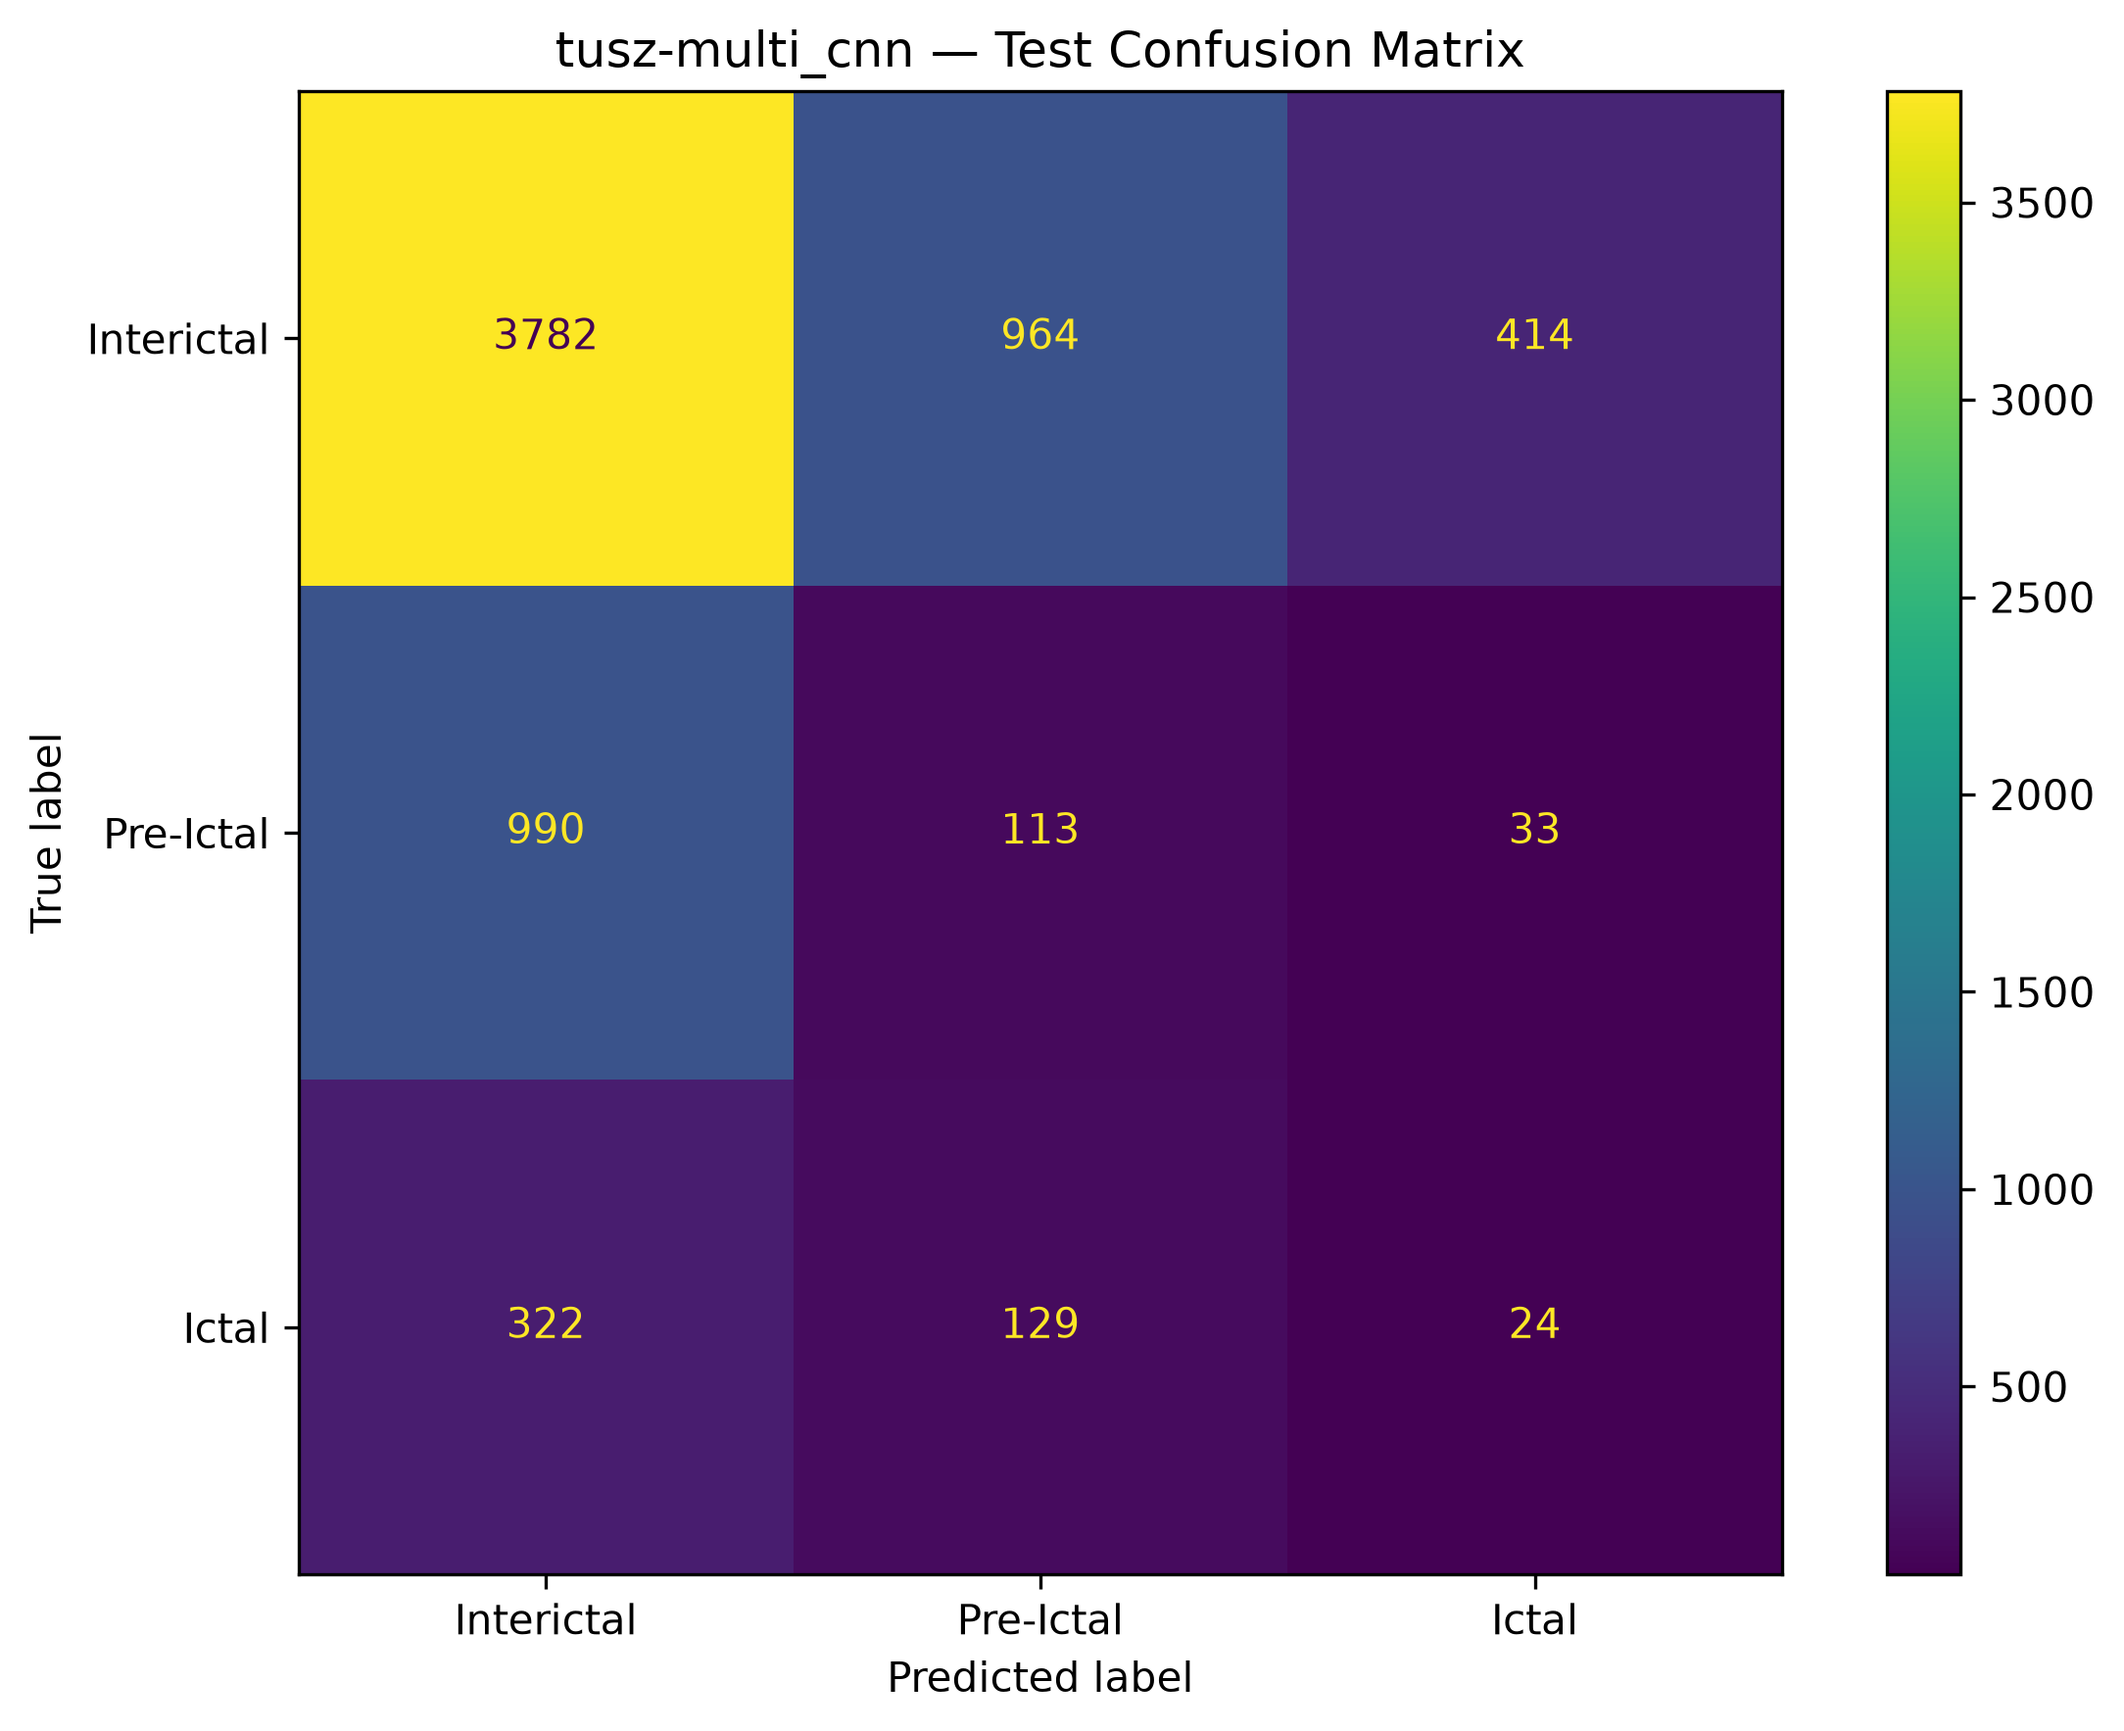
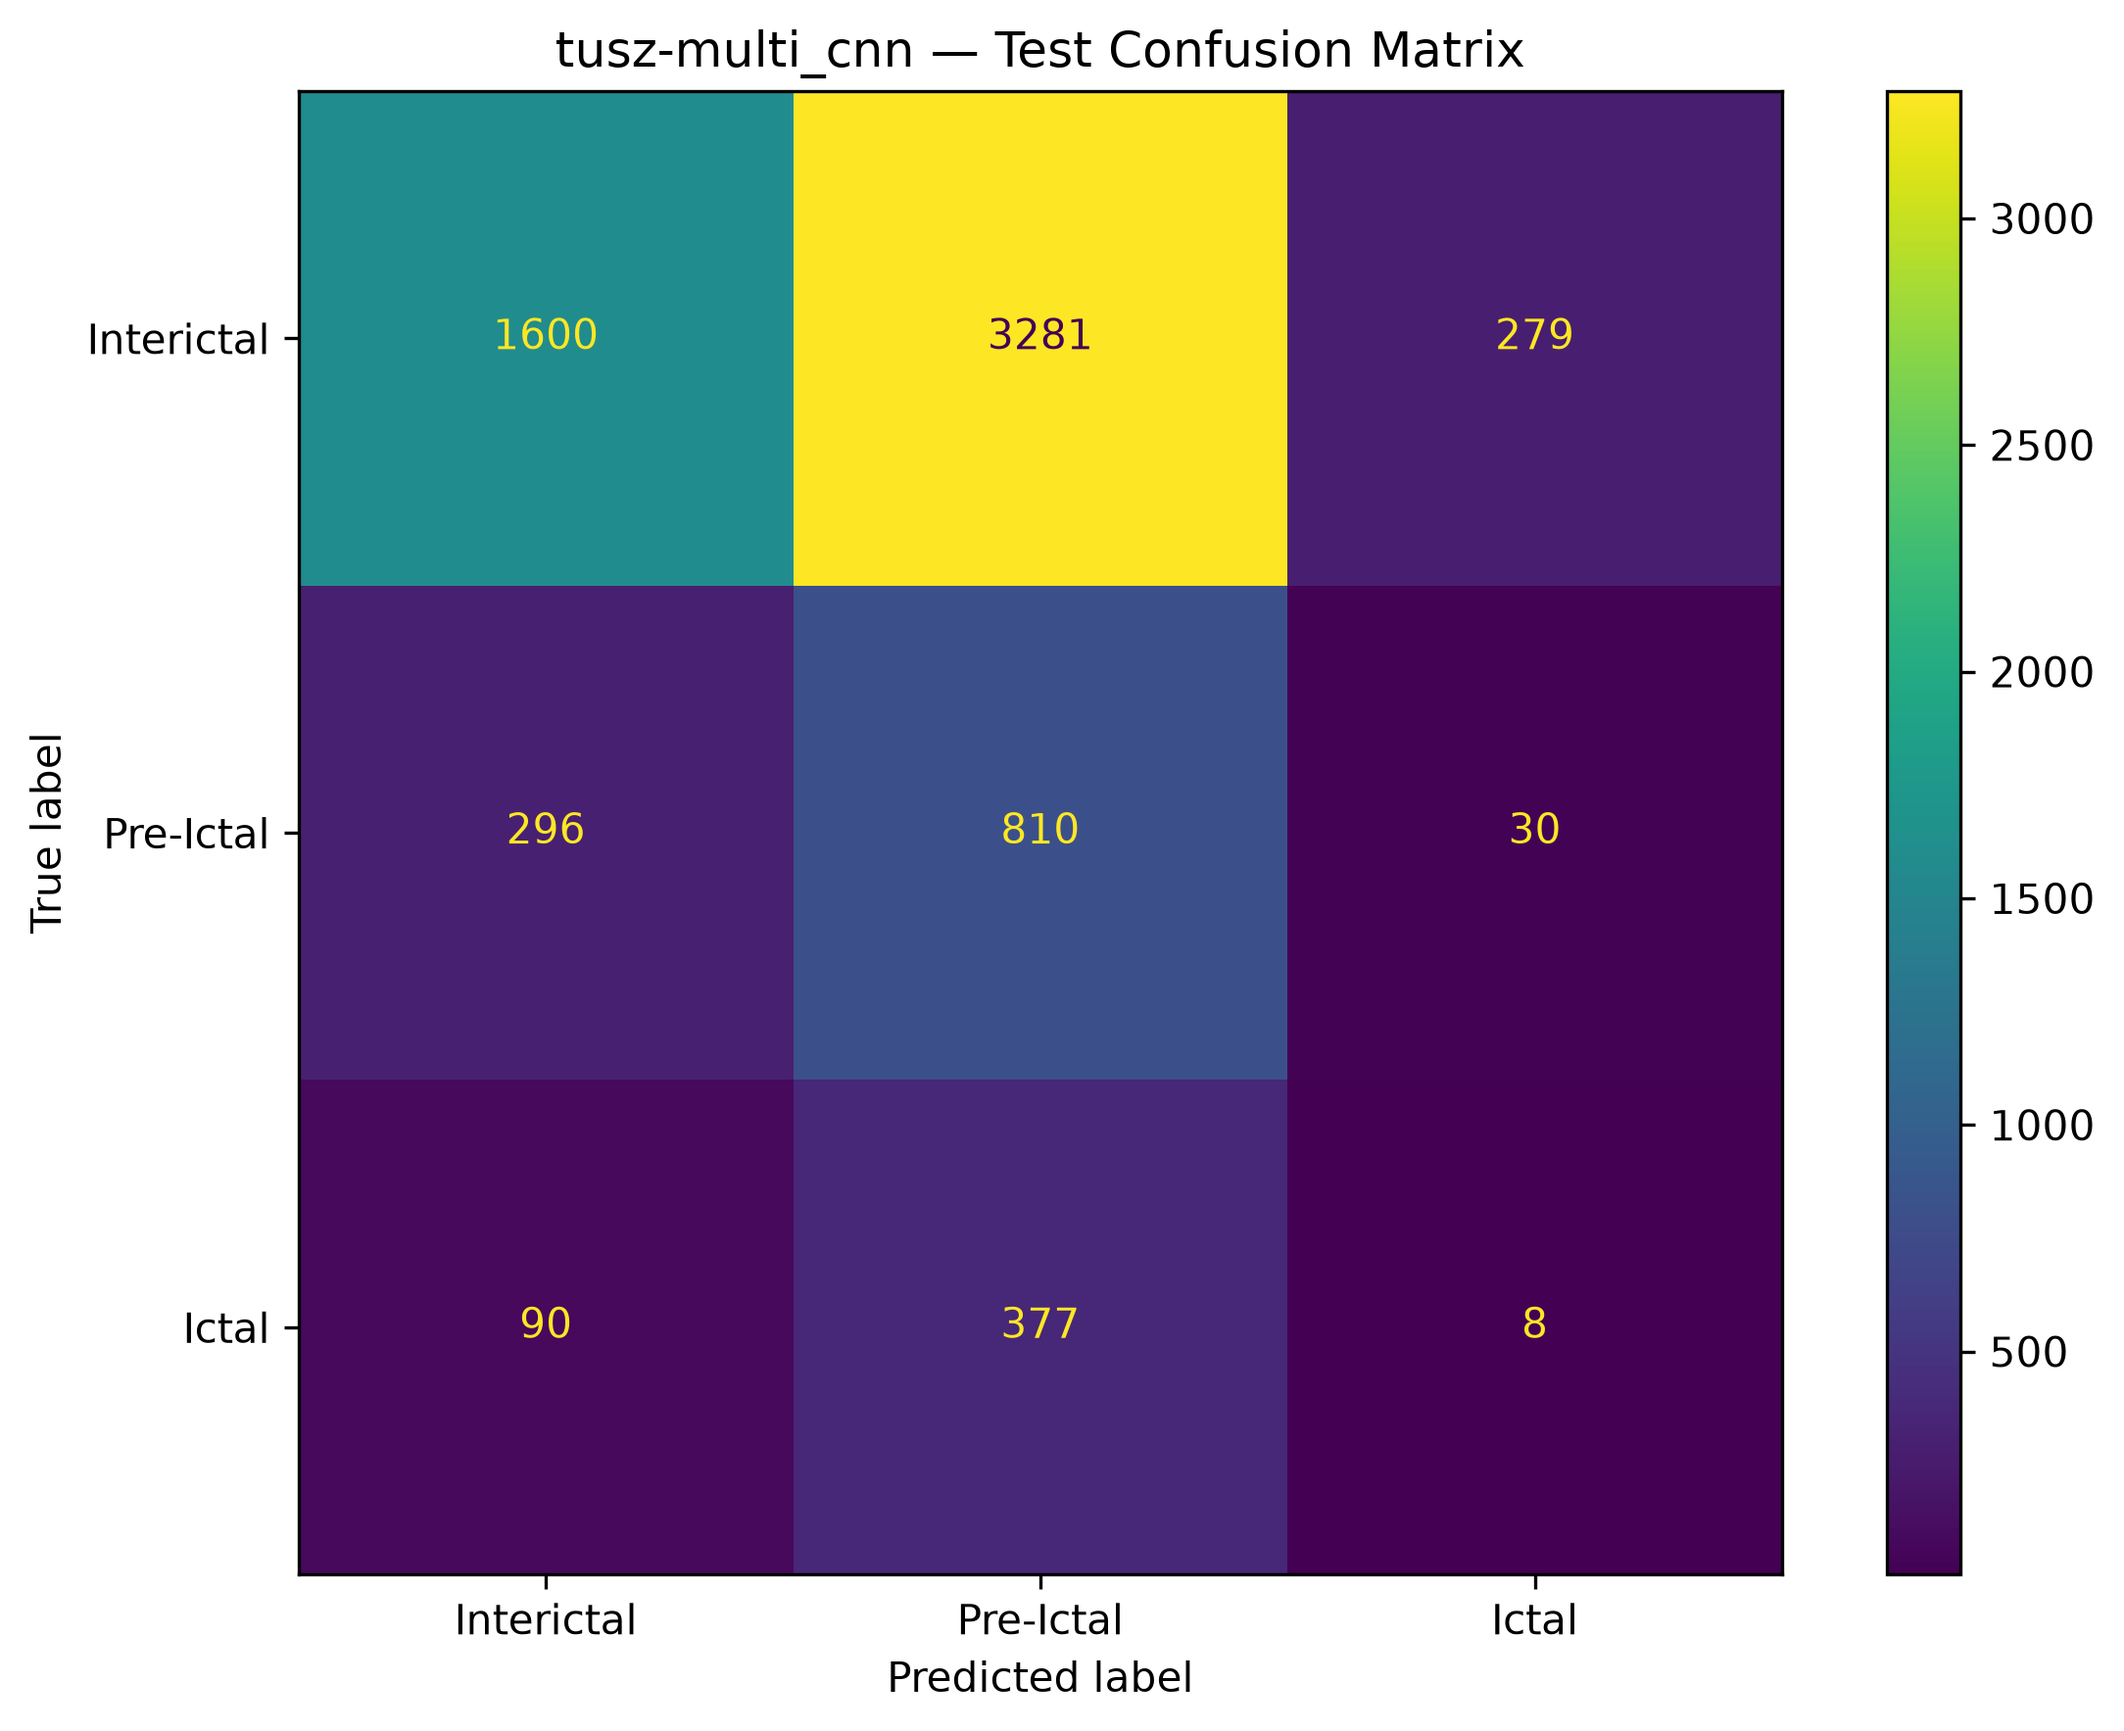
feat: complete balanced TUSZ CNN baseline experiment

diff --git a/reports/tables/tusz-multi_cnn_model_baseline_results.md b/reports/tables/tusz-multi_cnn_model_baseline_results.md
@@ -2,5 +2,5 @@
 
 | Model | Accuracy | Balanced Accuracy | Threshold | Precision | Recall/Sensitivity | Specificity | F1-score | AUC | False-Positive Windows/Hour | TP | TN | FP | FN |
 |---|---:|---:|---:|---:|---:|---:|---:|---:|---:|---:|---:|---:|---:|
-| SeizureCNN | 0.5788 | 0.2943 | 0.5900 | 0.2957 | 0.2943 | 0.6402 | 0.2950 | 0.5301 | 366.3270 | 299 | 3782 | 1378 | 1312 |
+| SeizureCNN | 0.3571 | 0.3466 | 0.3200 | 0.3374 | 0.3466 | 0.6874 | 0.2524 | 0.5224 | 946.3890 | 1225 | 1600 | 3560 | 386 |
 | MajorityClassBaseline | 0.7621 | 0.3333 | 0.5000 | 0.2540 | 0.3333 | 0.6667 | 0.2883 | 0.5000 | 0.0000 | 0 | 5160 | 0 | 1611 |
